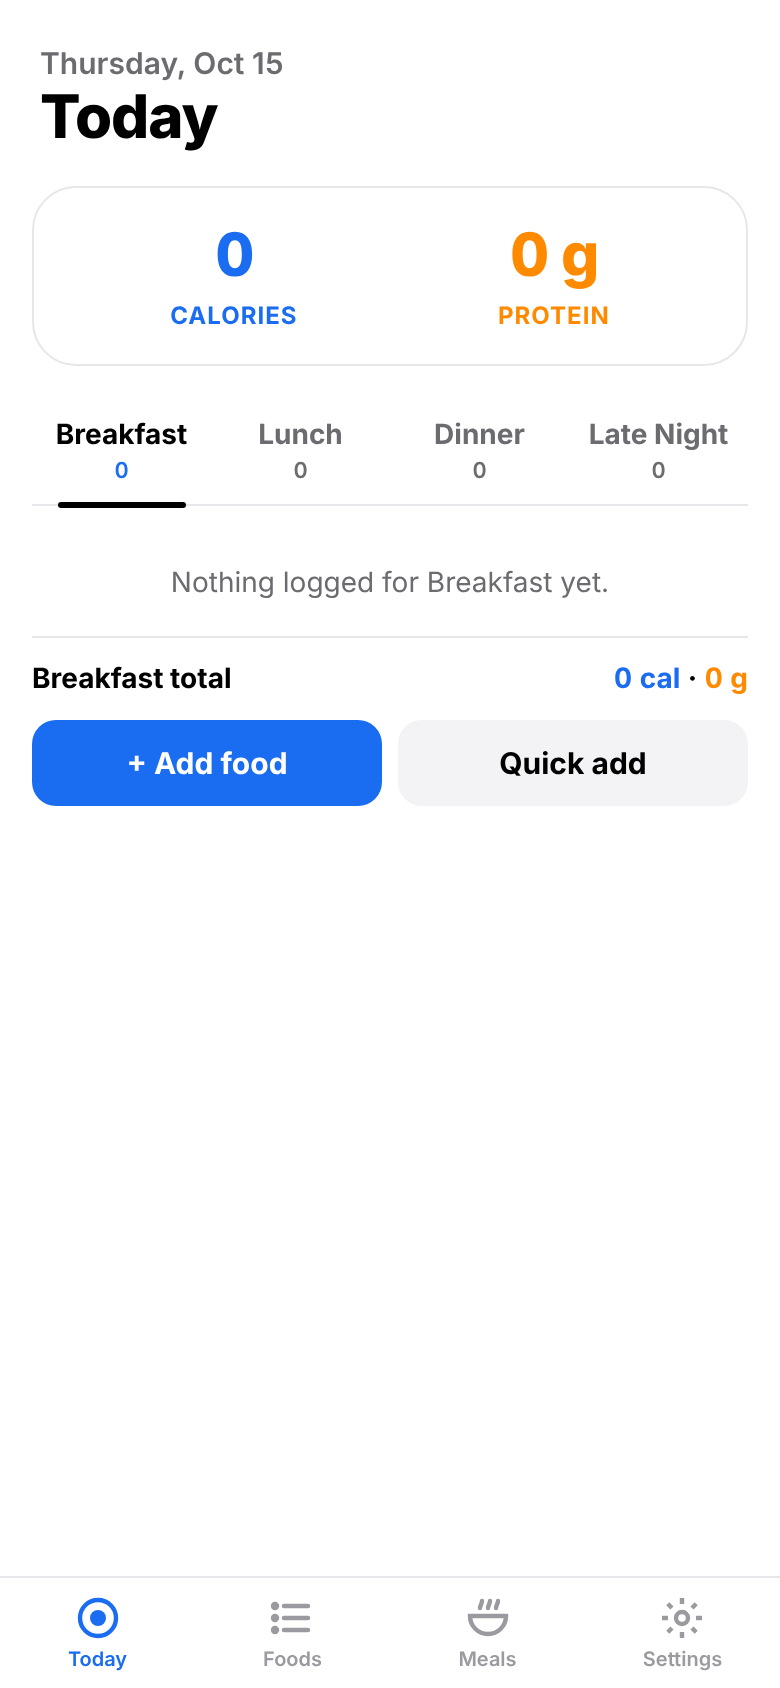
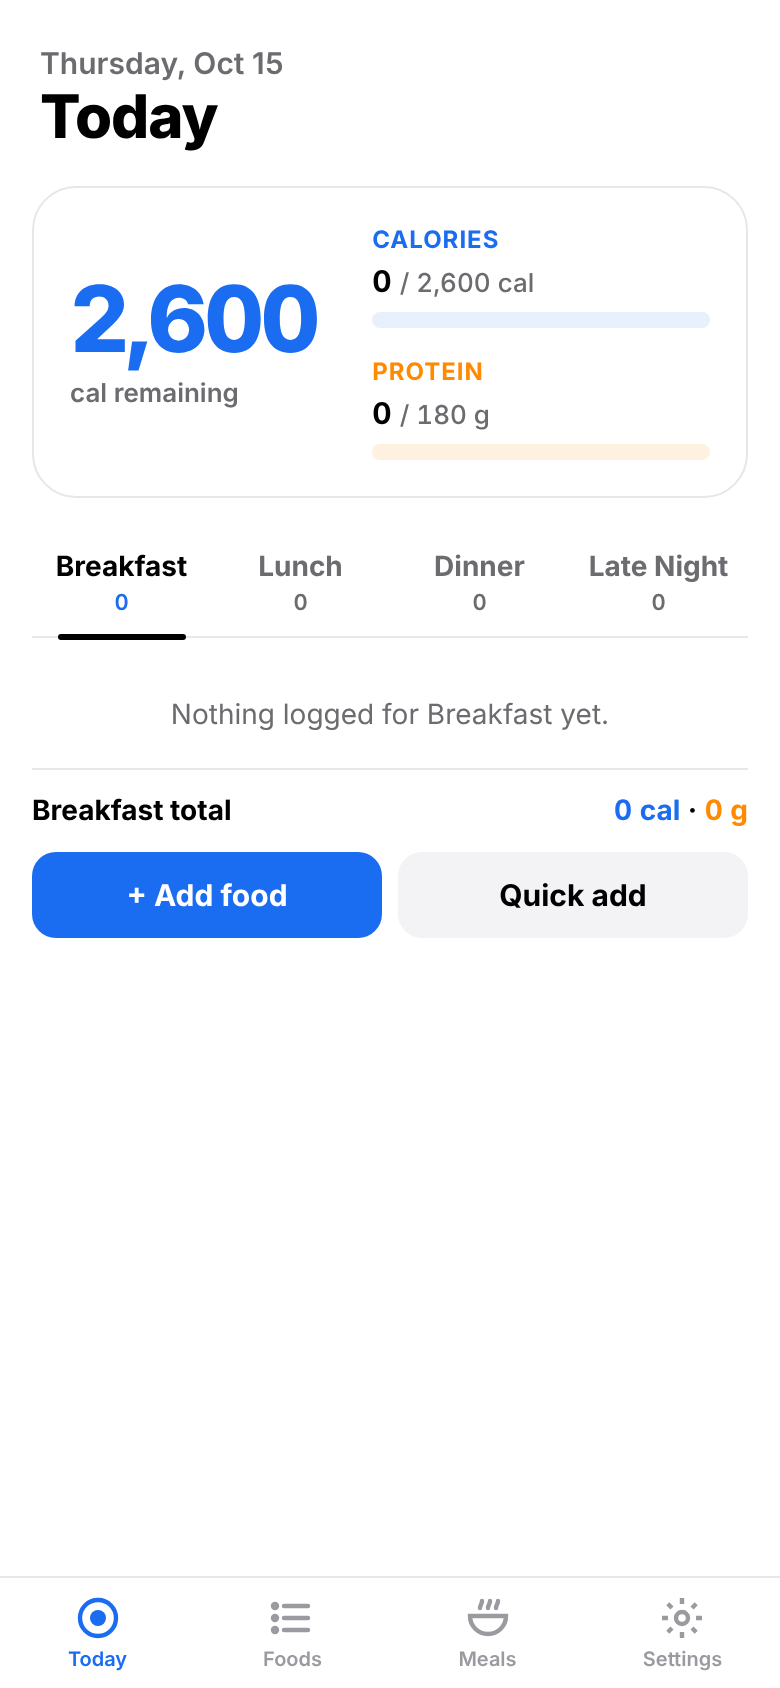
Phase 2: goals in Settings, big calories-remaining number, calorie + protein bars
- Placeholder goals 2,600 cal / 180 g until changed in Settings
- Big number = goal - eaten; blue until over, then negative and red (bar too)
- Protein bar stays orange, capped at full
- Unit tests for progress/formatSigned; tools/e2e-phase2.mjs with screenshots

Claude-Session: https://claude.ai/code/session_01Trr4t4JyrEn8euBRvFL3jP

diff --git a/js/app.js b/js/app.js
@@ -93,10 +93,7 @@ function renderToday() {
 
   return `<main class="screen with-tabs">
     <div class="top"><div><div class="date">${dateLine}</div><div class="title">${dayTitle(ui.date)}</div></div></div>
-    <section class="summary">
-      <div><b class="c num">${fmt(day.cal)}</b><span class="c">Calories</span></div>
-      <div><b class="p num">${fmt(day.protein)} g</b><span class="p">Protein</span></div>
-    </section>
+    ${hero(day)}
     <div class="tabs">${tabs}</div>
     <div class="list">
       ${rows}
@@ -107,6 +104,30 @@ function renderToday() {
       </div>
     </div>
   </main>`;
+}
+
+// Big calories-remaining number + calorie (blue) and protein (orange) bars.
+// Calories turn red only once eaten is over the goal.
+function hero(day) {
+  const goals = S.getGoals();
+  const cal = L.progress(day.cal, goals.calGoal);
+  const pro = L.progress(day.protein, goals.proteinGoal);
+  const big = L.formatSigned(cal.remaining);
+  const size = big.length > 6 ? ' xs' : big.length > 4 ? ' sm' : '';
+  return `<section class="hero${cal.over ? ' over' : ''}">
+    <div>
+      <div class="big num${size}" data-testid="remaining">${big}</div>
+      <div class="cap">cal remaining</div>
+    </div>
+    <div class="bars">
+      <div class="bar cal"><div class="lbl">Calories</div>
+        <div class="val num" data-testid="cal-val">${fmt(cal.eaten)} <small>/ ${fmt(cal.goal)} cal</small></div>
+        <div class="track"><div class="fill" style="width:${(cal.pct * 100).toFixed(1)}%"></div></div></div>
+      <div class="bar pro"><div class="lbl">Protein</div>
+        <div class="val num" data-testid="pro-val">${fmt(pro.eaten)} <small>/ ${fmt(pro.goal)} g</small></div>
+        <div class="track"><div class="fill" style="width:${(pro.pct * 100).toFixed(1)}%"></div></div></div>
+    </div>
+  </section>`;
 }
 
 const searchBox = (id, value = '') => `<div class="search">
@@ -143,8 +164,21 @@ function renderMeals() {
 }
 
 function renderSettings() {
+  const g = S.getGoals();
   return `<main class="screen with-tabs"><div class="pagetitle">Settings</div>
-    <div class="placeholder">Daily goals are coming in Phase 2.<br>Export / Import backup in Phase 4.</div></main>`;
+    <div class="section-h">Daily goals</div>
+    <div class="form">
+      <div class="row2">
+        <div class="field"><label for="g-cal" class="c">Calories</label><div class="unit"><input id="g-cal" inputmode="numeric" pattern="[0-9]*" value="${g.calGoal}"><span>cal</span></div></div>
+        <div class="field"><label for="g-pro" class="p">Protein</label><div class="unit"><input id="g-pro" inputmode="numeric" pattern="[0-9]*" value="${g.proteinGoal}"><span>g</span></div></div>
+      </div>
+      <div class="err" id="g-err"></div>
+    </div>
+    <div class="actions"><button class="btn primary big" data-act="save-goals">Save goals</button></div>
+    <p class="note">The same goals apply to every day.</p>
+    <div class="section-h">Backup</div>
+    <p class="note left">Export / Import is coming in Phase 4.</p>
+  </main>`;
 }
 
 function nav(title, back = 'Back') {
@@ -345,6 +379,17 @@ $app.addEventListener('click', ev => {
       if (!(protein >= 0)) { err.textContent = 'Enter protein per serving (0 is fine).'; break; }
       const food = S.saveFood({ id: p.foodId, name, servingGrams, cal, protein });
       if (p.thenLog) { ui.stack.pop(); openLogNew(food); } else { toast(p.foodId ? 'Food saved' : 'Food created'); pop(); }
+      break;
+    }
+    case 'save-goals': {
+      const calGoal = num('g-cal');
+      const proteinGoal = num('g-pro');
+      const err = document.getElementById('g-err');
+      if (!(calGoal > 0)) { err.textContent = 'Enter a calorie goal above 0.'; break; }
+      if (!(proteinGoal > 0)) { err.textContent = 'Enter a protein goal above 0.'; break; }
+      S.saveGoals({ calGoal: Math.round(calGoal), proteinGoal: Math.round(proteinGoal) });
+      err.textContent = '';
+      toast('Goals saved');
       break;
     }
     case 'delete-food':

diff --git a/css/app.css b/css/app.css
@@ -27,10 +27,24 @@ input { font: inherit; color: var(--ink); }
 .top .date { font-size: 15px; color: var(--muted); font-weight: 600; }
 .top .title { font-size: 30px; font-weight: 800; letter-spacing: -0.5px; }
 
-/* Day summary (Phase 1; becomes the big-number card in Phase 2) */
-.summary { margin: 12px 16px 0; border: 1.5px solid var(--line); border-radius: 22px; padding: 16px 18px; display: flex; justify-content: space-around; text-align: center; }
-.summary b { display: block; font-size: 30px; font-weight: 800; letter-spacing: -1px; }
-.summary span { font-size: 12px; font-weight: 700; text-transform: uppercase; letter-spacing: .5px; }
+/* Hero: big calories-remaining number + bars */
+.hero { margin: 12px 16px 0; border: 1.5px solid var(--line); border-radius: 22px; padding: 18px; display: grid; grid-template-columns: 1fr 1.25fr; gap: 16px; align-items: center; }
+.hero .big { font-size: 56px; font-weight: 800; letter-spacing: -2px; line-height: 1; color: var(--blue); white-space: nowrap; }
+.hero .big.sm { font-size: 46px; letter-spacing: -1.5px; }
+.hero .big.xs { font-size: 38px; letter-spacing: -1px; }
+.hero .cap { font-size: 13px; color: var(--muted); font-weight: 600; margin-top: 6px; }
+.hero.over .big, .hero.over .cap { color: var(--red); }
+.bars { display: grid; gap: 14px; }
+.bar .lbl { font-size: 12px; font-weight: 700; text-transform: uppercase; letter-spacing: .5px; margin-bottom: 4px; }
+.bar.cal .lbl { color: var(--blue); } .bar.pro .lbl { color: var(--orange); }
+.bar .val { font-size: 15px; font-weight: 700; margin-bottom: 6px; white-space: nowrap; }
+.bar .val small { color: var(--muted); font-weight: 500; font-size: 13px; }
+.track { height: 8px; border-radius: 4px; overflow: hidden; }
+.fill { height: 100%; border-radius: 4px; transition: width .3s; }
+.bar.cal .track { background: var(--blue-soft); } .bar.cal .fill { background: var(--blue); }
+.bar.pro .track { background: var(--orange-soft); } .bar.pro .fill { background: var(--orange); }
+.hero.over .bar.cal .lbl, .hero.over .bar.cal .val { color: var(--red); }
+.hero.over .bar.cal .track { background: #fde6e5; } .hero.over .bar.cal .fill { background: var(--red); }
 
 /* Meal tabs */
 .tabs { display: grid; grid-template-columns: repeat(4, 1fr); margin: 18px 16px 0; border-bottom: 1.5px solid var(--line); }
@@ -125,3 +139,5 @@ input { font: inherit; color: var(--ink); }
   background: var(--ink); color: #fff; font-size: 14px; font-weight: 600; padding: 10px 16px; border-radius: 20px; }
 .field label.c { color: var(--blue); }
 .field label.p { color: var(--orange); }
+.section-h { font-size: 13px; font-weight: 700; text-transform: uppercase; letter-spacing: .5px; color: var(--muted); padding: 18px 20px 8px; }
+.note.left { text-align: left; margin: 0 20px; font-size: 14px; }

diff --git a/js/store.js b/js/store.js
@@ -29,6 +29,20 @@ const uid = () => Date.now().toString(36) + Math.random().toString(36).slice(2, 
 
 export const getState = () => state;
 
+// ---------- Goals ----------
+// Placeholders until changed in Settings; the same goal applies every day.
+export const DEFAULT_GOALS = { calGoal: 2600, proteinGoal: 180 };
+
+export function getGoals() {
+  const s = state.settings || {};
+  return { calGoal: s.calGoal ?? DEFAULT_GOALS.calGoal, proteinGoal: s.proteinGoal ?? DEFAULT_GOALS.proteinGoal };
+}
+
+export function saveGoals({ calGoal, proteinGoal }) {
+  state.settings = { ...state.settings, calGoal, proteinGoal };
+  save();
+}
+
 // ---------- Saved foods ----------
 export function getFood(id) {
   return state.foods.find(f => f.id === id);

diff --git a/js/logic.js b/js/logic.js
@@ -75,3 +75,16 @@ export function searchFoods(foods, query) {
   const list = q ? foods.filter(f => f.name.toLowerCase().includes(q)) : foods.slice();
   return list.sort((a, b) => a.name.localeCompare(b.name));
 }
+
+// Goal progress for one number (calories or protein).
+// Over only when eaten is strictly more than the goal.
+export function progress(eaten, goal) {
+  const remaining = goal - eaten;
+  return { eaten, goal, remaining, over: remaining < 0, pct: goal > 0 ? Math.min(eaten / goal, 1) : 0 };
+}
+
+// "1,234" or "−240" (true minus sign) for the big remaining number.
+export function formatSigned(n) {
+  const s = Math.abs(Math.round(n)).toLocaleString('en-US');
+  return n < 0 ? `−${s}` : s;
+}

diff --git a/SPEC.md b/SPEC.md
@@ -119,3 +119,7 @@ FIRST ACTION: save this entire file as SPEC.md in the repo root. Re-read it at t
 - **Time precision:** go by the minute, ignore seconds (e.g. 11:00:45 = 11:00).
 - **Protein:** whole grams everywhere (round to nearest gram). Calories are whole numbers too.
 - **Git:** Claude pushes to `main` automatically at the end of each phase (and whenever useful), no need to ask. Git permissions are pre-approved in `.claude/settings.json`.
+
+### After Phase 1 (2026-10-19)
+- **First launch:** start with placeholder goals **2,600 cal / 180 g**, changeable in Settings (no setup prompt).
+- **Colors:** calories stay **blue** until actually over the goal (remaining < 0), then the number and calorie bar turn **red**. No "near goal" warning color. Exactly at goal (0 remaining) is still blue.
